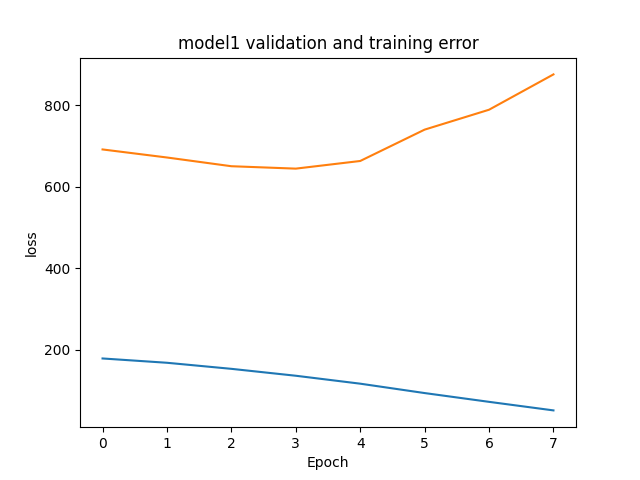
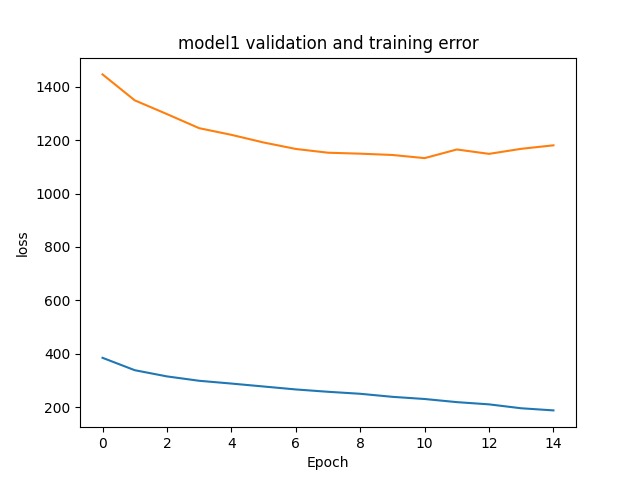
changed model to 2 emotions ~0.8 val accuracy

diff --git a/model_training/cnn.py b/model_training/cnn.py
@@ -6,6 +6,7 @@ from torch.nn import MaxPool2d
 from torch.nn import ReLU
 from torch.nn import LogSoftmax
 from torch import flatten
+from torch.nn import AvgPool2d
 from torch.nn import ParameterList
 
 class CNN(Module):
@@ -28,19 +29,20 @@ class CNN(Module):
 		super().__init__()
 
 
-		self.conv1 = Conv2d(in_channels=1, out_channels=16, kernel_size=2, stride=1, padding=1)
-		#self.drop1 = Dropout()
+		self.conv1 = Conv2d(in_channels=1, out_channels=16, kernel_size=2, stride=2, padding=0)
+		self.drop1 = Dropout(p=0.3)
 		self.relu1 = ReLU()
+		self.pool1 = MaxPool2d(kernel_size=2)
 
 		self.conv2 = Conv2d(in_channels=16, out_channels=32, kernel_size=2, stride=1, padding=0)
+		#self.drop2 = Dropout(p=0.5)
 		self.relu2 = ReLU()
+		self.pool2 = MaxPool2d(kernel_size=2)
+		
+		self.linear4 = Linear(in_features=800, out_features=400)
+		self.relu4 = ReLU()
 
-		self.pool2 = MaxPool2d(kernel_size=3)
-
-		self.linear3 = Linear(in_features=8192, out_features=1000)
-		self.relu3 = ReLU()
-
-		self.linear4 = Linear(in_features=1000, out_features=num_classes)
+		self.linear5 = Linear(in_features=400, out_features=num_classes)
 		
 		self.logsoftmax = LogSoftmax()
 
@@ -48,22 +50,25 @@ class CNN(Module):
 
 
 	def forward(self, x):
-
+		#print(x.size())
 		x = self.conv1(x)
-		#x = self.drop1(x)
+		x = self.drop1(x)
 		x = self.relu1(x)
+		x = self.pool1(x)
 
-
+		#print(x.size())
 		x = self.conv2(x)
+		# x = self.drop2(x)
 		x = self.relu2(x)
 		x = self.pool2(x)
 
+
 		x = flatten(x, 1)
 
-		x = self.linear3(x)
-		x = self.relu3(x)
-
 		x = self.linear4(x)
+		x = self.relu4(x)
+
+		x = self.linear5(x)
 		
 		out = self.logsoftmax(x)
 		

diff --git a/model_training/train.py b/model_training/train.py
@@ -18,7 +18,7 @@ class Train:
 
         random.shuffle(train_data)
 
-        train_data = train_data[0:2000]
+        #train_data = train_data[0:2500]
 
         VAL_BOUNDRY = len(train_data) // 5
         self.train_data = DataLoader(train_data[VAL_BOUNDRY:], batch_size=batch_size)
@@ -36,7 +36,7 @@ class Train:
 
         train_loss_list = []
         validation_loss_list = []
-        epoch_list = np.arange(self.epochs)
+        
         print(f"Beginning training: {name}\n-------------------------------")
 
         for epoch in range(self.epochs):
@@ -82,10 +82,17 @@ class Train:
                 #append total loss to validation_loss_list
                 validation_loss_list.append(val_loss.item())
 
+
             print(f"Epoch: {epoch} --- train loss: {train_loss} --- train correct: {train_correct} / {len(self.train_data) * self.batch_size}\n")
             print(f"Epoch: {epoch} --- validation loss: {val_loss} --- validation correct: {val_correct} / {len(self.validation_data)}\n")
 
+            # point of diminishing returns
+            if len(train_loss_list) > 6 and abs(train_loss_list[-1] - train_loss_list[-2]) < 1 and abs(train_loss_list[-2] - train_loss_list[-3]) < 1:
+                print("Training loss decrease <1....Stopping training")
+                break
 
+
+        epoch_list = np.arange(len(train_loss_list))
         plt.plot(epoch_list, train_loss_list, label = "training loss")
         plt.plot(epoch_list, validation_loss_list, label = "validation loss")
         plt.title(f"{name} validation and training error")

diff --git a/model_training/model_train.py b/model_training/model_train.py
@@ -13,7 +13,7 @@ category_dict = {}
 CWD = os.getcwd()
 BATCH_SIZE = 16
 LR = 0.001
-EPOCHS=25
+EPOCHS=15
 
 train = []
 num = 0
@@ -24,6 +24,8 @@ pil_to_tensor = ToTensor()
 print("Loading test and training images...........")
 for root, dirs, files in os.walk(f"{CWD}/model_training/archive/train"):
     for dir in dirs:
+        if dir not in ["happy", "sad"]:
+            continue
         path = f"{root}/{dir}"
         for file in os.listdir(path):
             img = Image.open(f"{path}/{file}")
@@ -39,6 +41,8 @@ inv_map = {v: k for k, v in category_dict.items()}
 test = []   
 for root, dirs, files in os.walk(f"{CWD}/model_training/archive/test"):
     for dir in dirs:
+        if dir not in ["happy", "sad"]:
+            continue
         path = f"{root}/{dir}"
         for file in os.listdir(path):
             img = Image.open(f"{path}/{file}")
